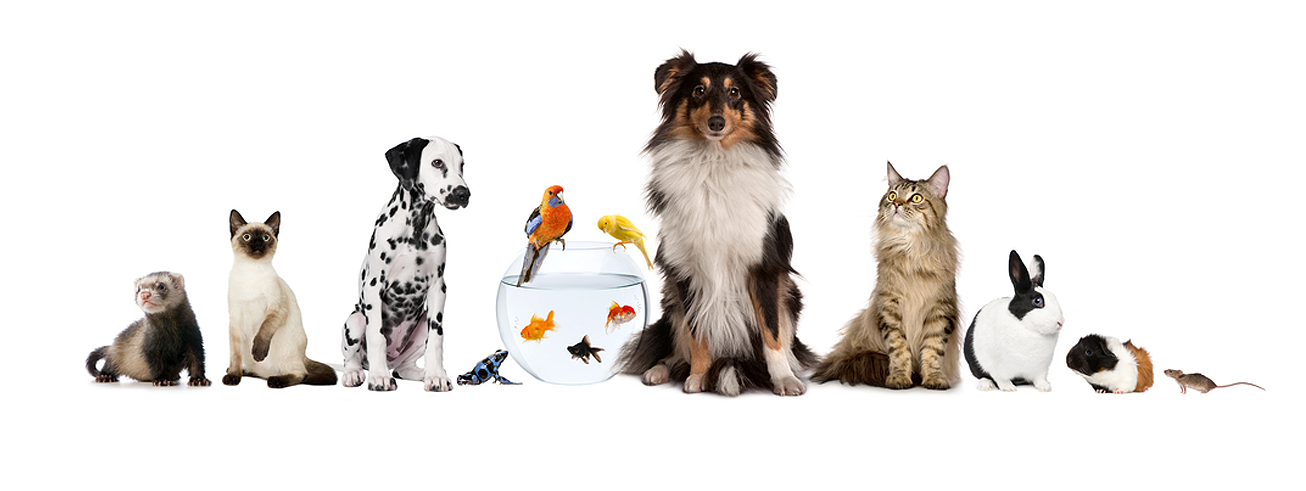
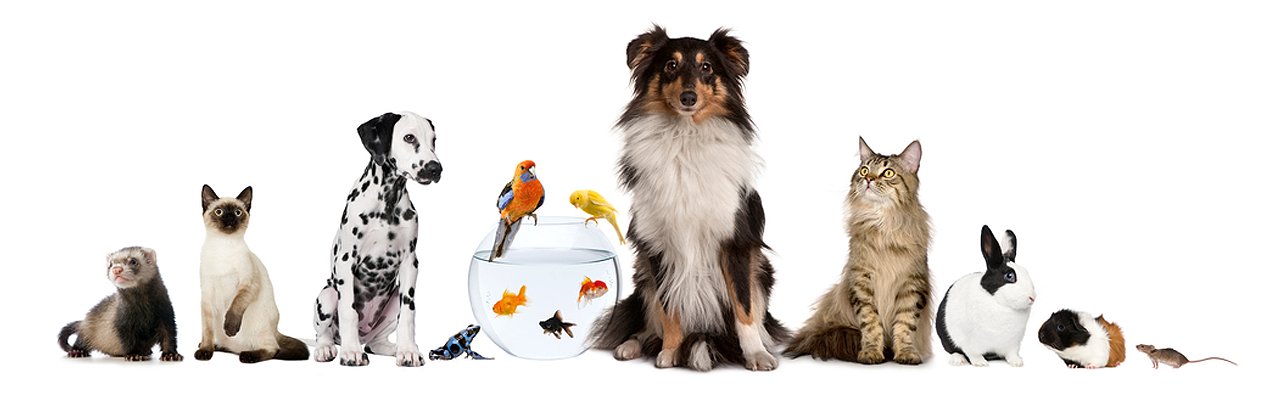
Added clean responsiveness in home page & template

Changed region(s): [[0.0305, 0.0609, 0.9773, 0.9442]]

diff --git a/client/src/pages/HomeApp.js b/client/src/pages/HomeApp.js
@@ -2,6 +2,7 @@ import React, {useState, useEffect} from 'react'
 import { Link } from 'react-router-dom'
 import './HomeApp.css'
 import CardLayout from './QuizComponents/CardLayout'
+import PetImage from './pics/pet_image_transform.png'
 
 export default function HomeApp() {
 
@@ -43,7 +44,8 @@ export default function HomeApp() {
               //fetch the data with the access token
               fetch("https://api.petfinder.com/v2/animals", {
               headers: {
-                Authorization: "Bearer " + token_access
+                Authorization: "Bearer " + token_access,
+                'Content-Type': 'application/json'
               },
               method: "GET"
             }).then(res => res.json()).then(data => setData(data.animals))
@@ -60,12 +62,14 @@ export default function HomeApp() {
 
 
     return (
-
         <div>
             <div className = 'top-container'>
             <header className = 'landing-info'>
-            <div className= 'landing-contents'>
-            <h1 className= 'landing-info-text'>Welcome to the pet finder!</h1>
+            <div className = 'pet-welcome-image'>
+                <img src={PetImage} alt = 'Pet Welcome!'/>
+            </div>
+            <div className='landing-contents'>
+            <h1 className= 'landing-info-text'>Welcome to Pet Harmony !</h1>
             <Link to= '/quizapp' className='landing-quiz-btn'>Take Quiz</Link>
             </div>
             </header>

diff --git a/client/src/pages/PetLayout.css b/client/src/pages/PetLayout.css
@@ -7,7 +7,7 @@
     grid-template-columns: 2fr 1fr;
     text-align: center;
     padding: 10px;
-    
+    gap: 30px;
 }
 .pet-info-section {
     display: grid;
@@ -51,9 +51,16 @@
 }
 .image-pet-source {
     border-radius: 25% 10%;
+    box-shadow: 5px 5px;
 }
-div img {
-    height: 500px;
+div.grid-contents img {
+    /* Center image in div */
+    margin-left: auto;
+	margin-right: auto;
+    display: block;
+    /* Resize appropriately */
+       max-width:65%;
+       height:auto;
 }
 /* Alternate divs */
 
@@ -67,23 +74,25 @@ div img {
         grid-template-columns: 1fr;
         text-align: center;
         padding: 10px;
-        
+        gap: 20px;
     }
-    .pet-info-section {
+
+    .cost-section {
         display: grid;
-        grid-template-areas: 1fr;
-        text-align: center;
-       
+        gap: 10px;
+        padding: 10px;
+        grid-template-columns: 1fr 1fr;
     }
+
     .exp-time-section {
         display: grid;
-        grid-template-columns: 1fr;
+        grid-template-columns: 1fr 1fr;
         gap: 10px;
         padding: 10px;
     }
-    .image-pet-source {
-        height: 280px;
-        width: 380px;
-        padding-bottom: 20px;
+
+    div img {
+        max-width:100%;
+        height:auto;
     }
 }

diff --git a/client/src/pages/HomeApp.css b/client/src/pages/HomeApp.css
@@ -7,15 +7,17 @@
 .top-container {
     font-family: Arial, Helvetica, sans-serif;
 }
+
 .landing-info {
-    background: url(pics/pet_image_transform.png);
-    background-size: cover;
-    background-position: center;
-    padding: 1rem;
-    display: flex;
-    flex-direction: column;  
-    align-items: center;
+    display: grid;
+    background-color: white;
 }
+
+div.pet-welcome-image img{
+    width: 100%;
+    height: auto;
+}
+
 .landing-quiz-btn {
     text-decoration: none;
     background: var(--dark);
@@ -34,14 +36,16 @@
 padding is the issue here
 add media queries? */
 .landing-contents {
-    padding-top: 30%;
     display: flex;
     flex-direction: column;
     align-items: center;
+    padding-bottom: 20px;
 }
 
 .landing-info-text {
-    font-size: 30px;
+    font-family: 'Lobster', cursive;
+    font-size: 36px;
+    text-align: center;
 }
 
 .containerSection-survey{
@@ -184,5 +188,10 @@ h4 {
         display: grid;
         gap: 20px;
         grid-template-columns: 1fr 1fr;
+    }
+    .landing-info-text {
+        font-family: 'Lobster', cursive;
+        font-size: 20px;
+        text-align: center;
     }
 }

diff --git a/client/src/pages/Navbar.js b/client/src/pages/Navbar.js
@@ -8,7 +8,7 @@ export default function Navbar() {
     <header>
         <div className = "navbar">
                 <img src = {Pic} alt = 'title' className = "logo"/>
-                <nav>
+                <nav className = 'nav-bar'>
                     <ul>
                     <li className = "navlist"><Link to="/homeapp">Home</Link></li>
                     <li className = "navlist"><Link to="/quizapp">Survey</Link></li>

diff --git a/client/src/index.css b/client/src/index.css
@@ -1,3 +1,6 @@
+html {
+  scroll-behavior: smooth
+}
 body {
   margin: 0;
   padding: 0;
@@ -16,7 +19,7 @@ header::after{
   clear: both;
 }
 
-nav{
+nav.nav-bar{
   float: right;
 }
 
@@ -71,4 +74,11 @@ nav a:before{
 
 nav a:hover::before{
   width: 100%;
+}
+
+@media screen and (max-width: 700px){
+  nav.nav-bar {
+    display: grid;
+    float: none;
+  }
 }
